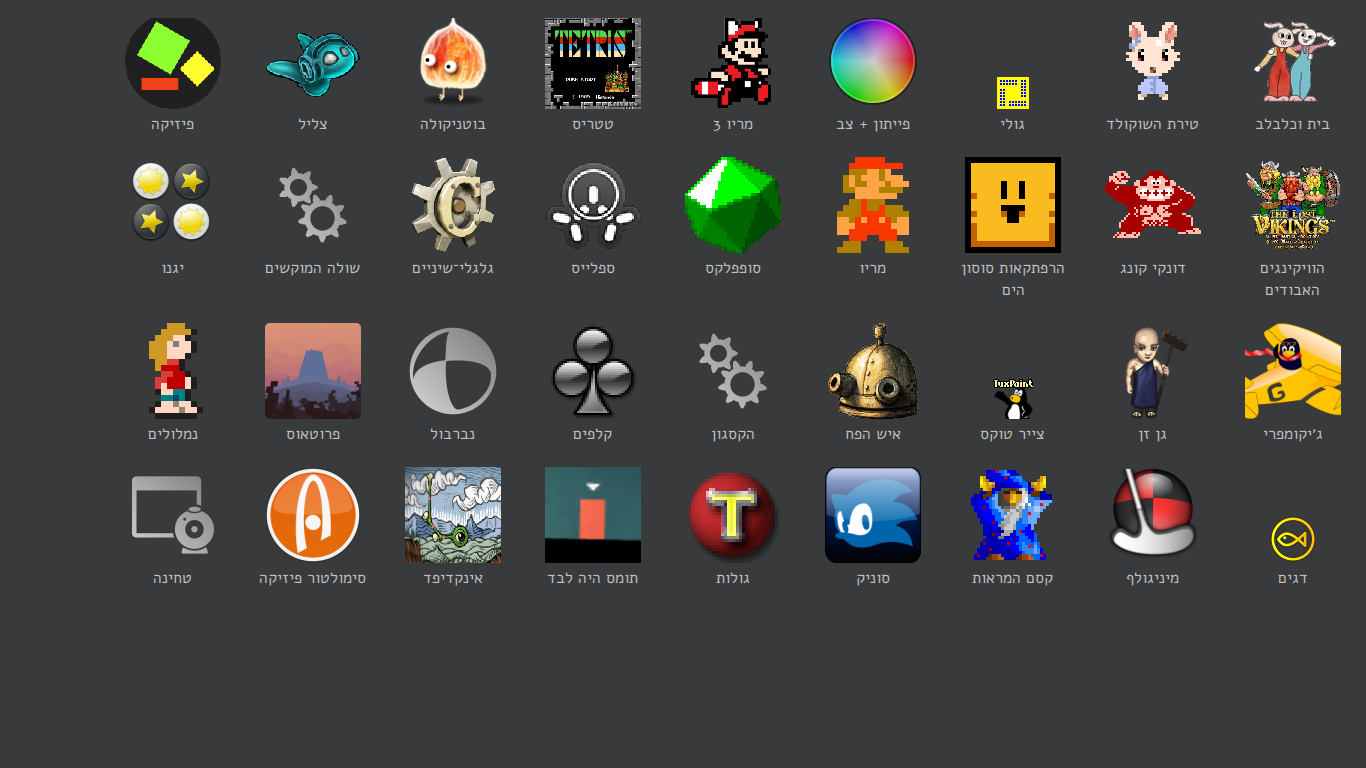
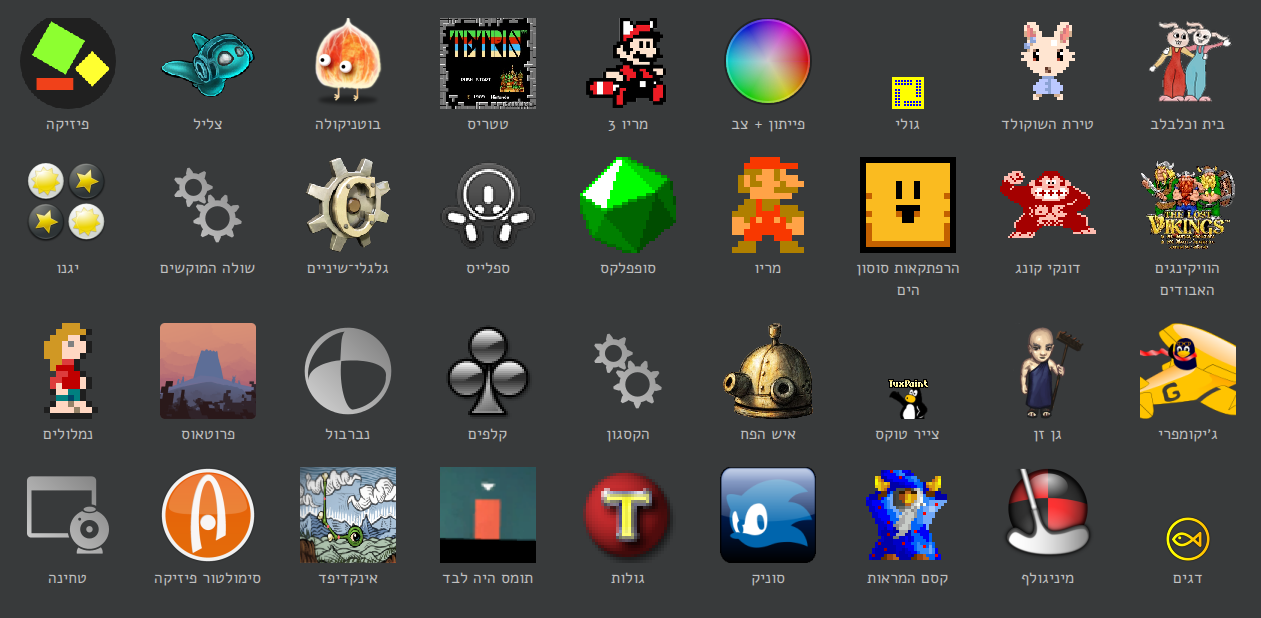
bidi comment + cropping

diff --git a/README.md b/README.md
@@ -35,7 +35,7 @@ You can select an application either using a mouse or a keyboard. Pressing `r` s
 A example of a populated menu, with English locale:
 ![English menu](readme-files/english.png)
 
-The same menu with Hebrew locale:
+The same menu with Hebrew locale (notice the change in [direction](https://en.wikipedia.org/wiki/Bi-directional_text)):
 ![Hebrew menu](readme-files/hebrew.png)
 
 
